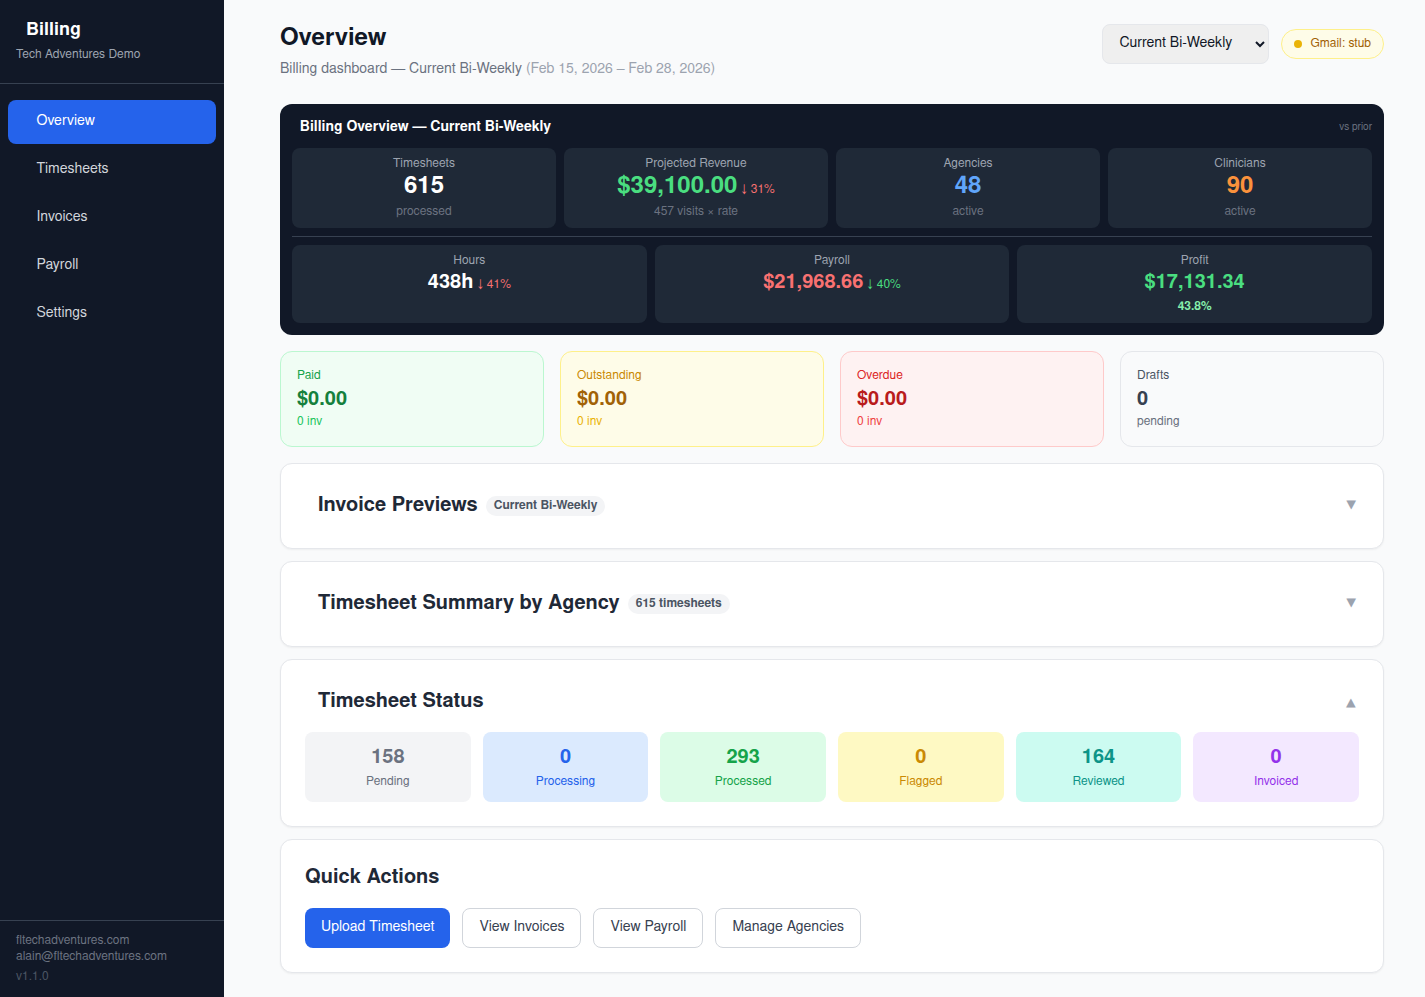
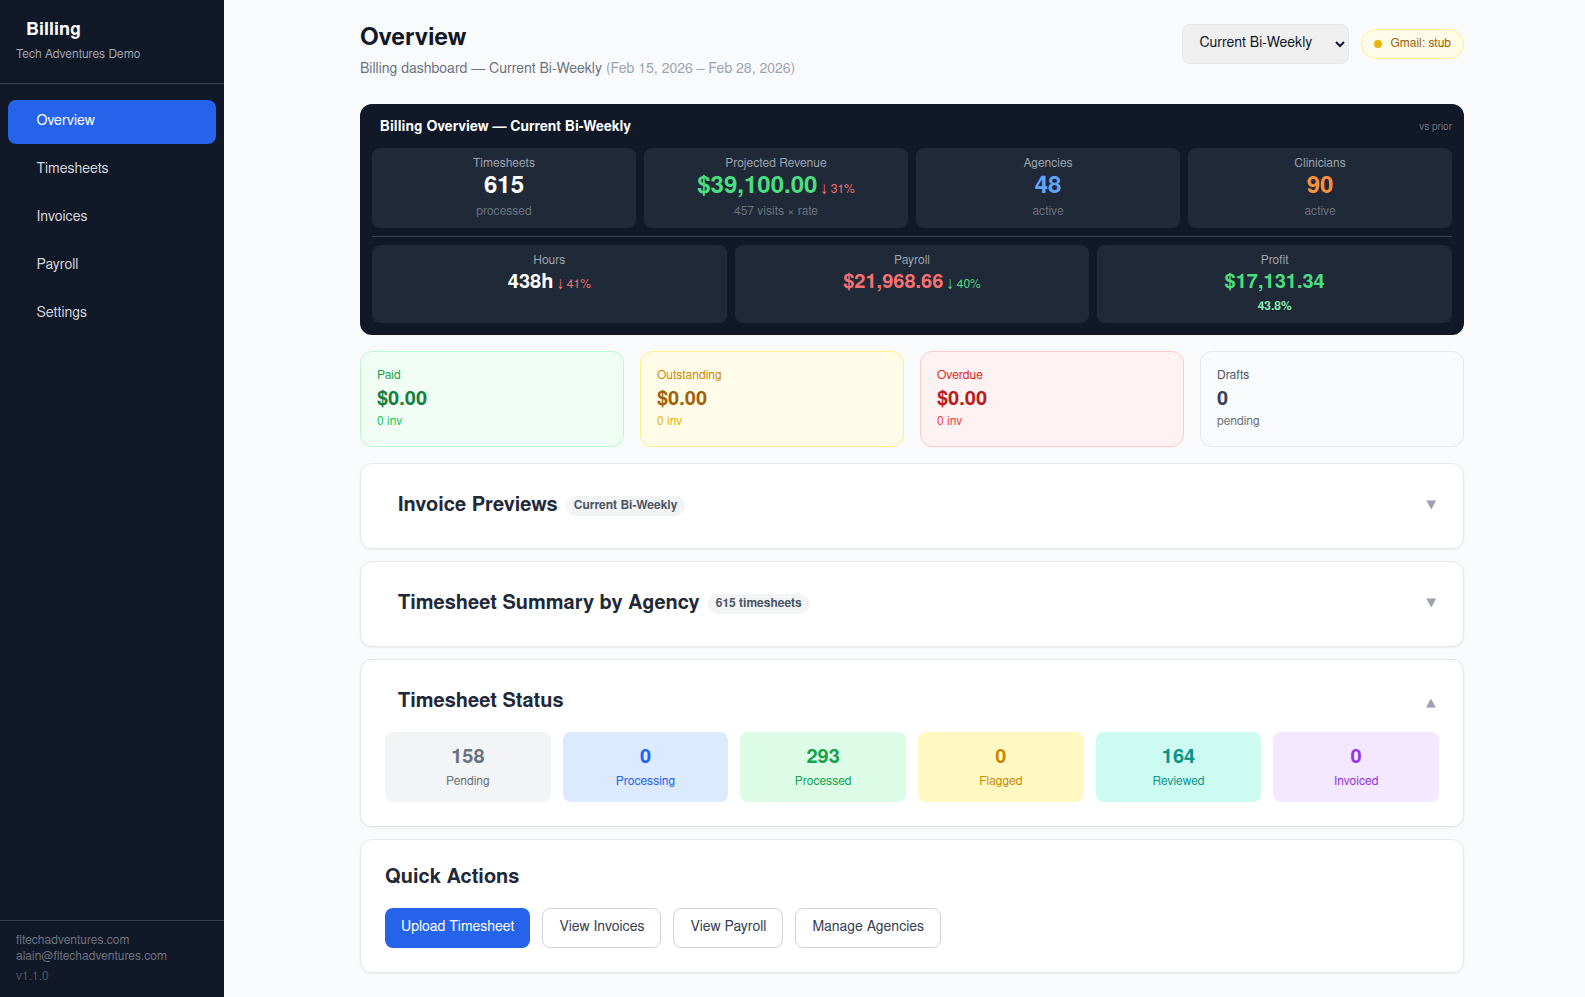
Widescreen dashboard screenshot (1600px), HTML img tag for proper scaling

diff --git a/README.md b/README.md
@@ -4,7 +4,9 @@ A full-stack billing automation system built for home health staffing agencies. 
 
 **Live Demo:** [staffing-agency-demo.fltechadventures.com](https://staffing-agency-demo.fltechadventures.com/)
 
-![Dashboard Overview](dashboard-overview.png)
+<p align="center">
+  <img src="dashboard-overview.png" alt="Dashboard Overview" width="100%">
+</p>
 
 ## Quick Start
 
